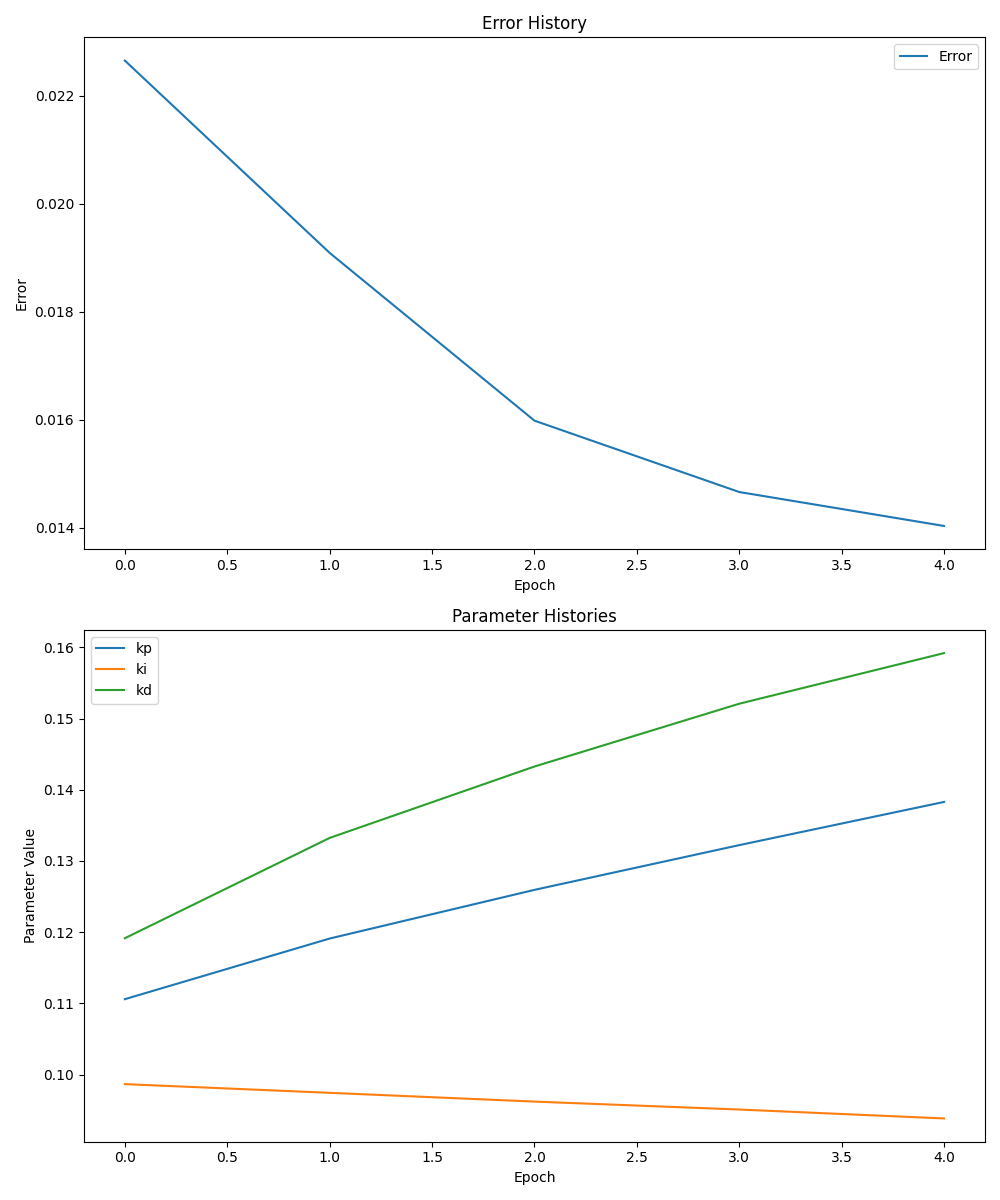
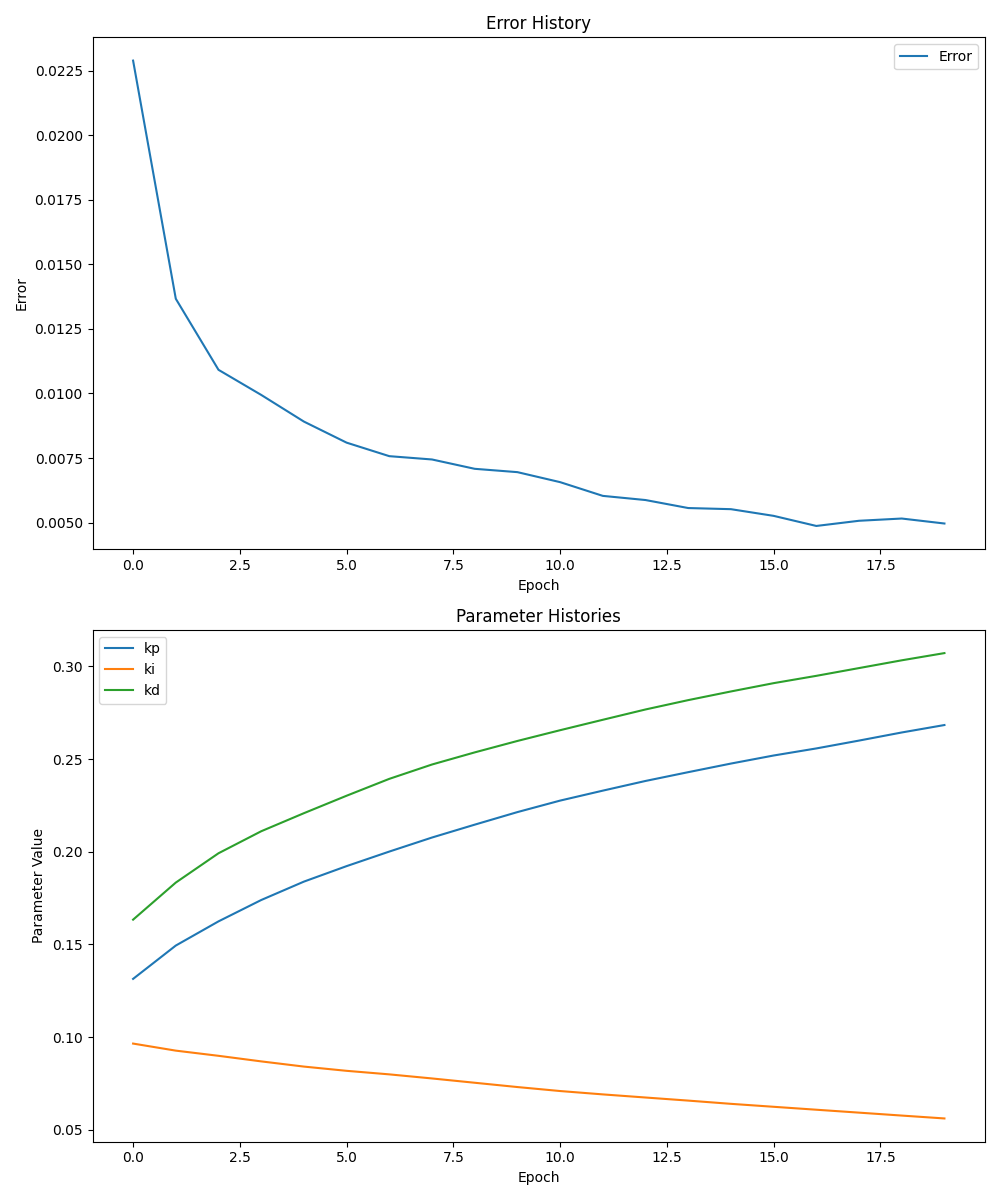
Fix cournot plant and add chemical plant

diff --git a/config.py b/config.py
@@ -1,43 +1,57 @@
-# 1. The plant to simulate: bathtub, Cournot competition, your additional model, etc.
-plant = "bathtub"
-# 2. The controller to use: classic or AI-based
+# 1. The plant to simulate: "bathtub", "cournot", "chemical_reaction"
+plant = "cournot"
+# 2. The controller to use: "classic" or "ann"
 controller = "classic"
-# 3. Number of layers and number of neurons in each layer of the neural network. Your system should
-# handle anywhere between 0 and 5 hidden layers.
+# 3. Number of layers and number of neurons in each layer of the neural network.
 num_layers = 1
-# 4. Activation function used for each layer of the neural network. Your system must include at least
-# Sigmoid, Tanh and RELU.
+# 4. Activation function used for each layer of the neural network. Possible values: "tanh", "sigmoid", "RELU".
 activation = "sigmoid"
 # 5. Range of acceptable initial values for each weight and bias in the neural network.
 weight_range = 1
 # 6. Number of training epochs
-num_epochs = 5
+num_epochs = 20
 # 7. Number of simulation timesteps of the CONSYS per epoch
 num_timesteps = 50
 # 8. Learning rate for tuning the controller parameters, whether classic PID or neural-net-based.
-learning_rate = 0.1
+#For classic chemical_reaction: learning_rate = 0.05 works good. 
+# For classic bathtub and cournot, learning_rate = 0.3 works good.
+learning_rate = 0.3
 # 9. Range of acceptable values for noise / disturbance (D).
+# For classic chemical_reaction: noise_range = 0.05 works good.
+# For classic bathtub and cournot: noise_range = 0.01 works good.
 noise_range = 0.01
+# Initial values for pid parameters
+#For classic chemical_reaction: kp = 0.3, ki = 0.3, kd = 0.3 works good.
+#For classic bathtub and cournot: kp = 0.1, ki = 0.1, kd = 0.1 works good.
+kp, ki, kd = 0.1, 0.1, 0.1
+
+max_or_min = "min"
+
+# Bathtub
 # 10. Cross-sectional area (A) of the bathtub
 A = 1
 # 11. Cross-sectional area (C) of the bathtub’s drain.
 C = 0.05
 # 12. Initial height (H0) of the bathtub water.
 H0 = 1
+
+# Cournot competition
 # 13. The maximum price (pmax) for Cournot competition
-pmax = 1
+pmax = 2
 # 14. The marginal cost (cm) for Cournot competition.
-cm = 0.1
+cm = 0.50
 # Target for the price of the Cournot competition
-target = 0.5
+cournot_target = 0.2
 # q1 initial amount produced
 q1 = 0.5
 # q2 initial amount produced
 q2 = 0.5
 # 15. At least two parameters for your third plant.
 
-# Initial values for pid parameters
-kp, ki, kd = 0.1, 0.1, 0.1
-
-max_or_min = "min"
-
+# Chemical reaction plant
+# 16. The rate constant (k) for the chemical reaction
+k = 0.2
+# 17. The target concentration for the chemical reaction
+chemical_plant_target = 10
+# 18. The initial concentration for the chemical reaction
+initial_concentration = 10

diff --git a/consys.py b/consys.py
@@ -7,6 +7,7 @@ from controllers.PIDcontroller import PIDCONTROLLER
 from plants.bathtub_plant import BATHTUB_PLANT
 import config
 from plants.cournot_plant import COURNOT_PLANT
+from plants.chemical_reaction_plant import CHEMICAL_REACTION_PLANT
 
 
 class CONSYS:
@@ -22,7 +23,9 @@ class CONSYS:
         if config.plant == "bathtub":
             self.plant = BATHTUB_PLANT(config.A, config.C, config.H0)
         elif config.plant == "cournot":
-            self.plant = COURNOT_PLANT(config.pmax, config.cm, config.target)
+            self.plant = COURNOT_PLANT(config.pmax, config.cm, config.cournot_target, config.q1, config.q2)
+        elif config.plant == "chemical_reaction":
+            self.plant = CHEMICAL_REACTION_PLANT(config.k, config.chemical_plant_target, config.initial_concentration)
         else:
             AttributeError(f"{config.plant} not supported")
 
@@ -42,7 +45,7 @@ class CONSYS:
         if config.controller == "classic":
             self.params = jnp.array([config.kp, config.ki, config.kd])
         elif config.controller == "ann":
-            for _ in range(config.num_layers):
+            for _ in range(config.num_layers): 
                 self.params.append(
                     np.random.uniform(-config.weight_range, config.weight_range))
         else:
@@ -58,6 +61,7 @@ class CONSYS:
             epoch_error_history.append(avg_error)
             self.params = self.update_params(self.params, gradients)
             self.param_history.append(self.params)
+            print(f"Average error: {avg_error}")
         
         return epoch_error_history, self.param_history
 
@@ -66,7 +70,8 @@ class CONSYS:
             "error_history": [0, 0],
             "disturbance": 0,
             "control_signal": 0,
-            "value": self.plant.get_inital_value(),
+            "value": self.plant.get_initial_value(),
+            "additional": self.plant.get_additional_values()
         }
 
         for _ in range(self.num_timesteps):
@@ -87,4 +92,5 @@ class CONSYS:
         new_params = []
         for i in range(len(params)):
             new_params.append(params[i] + q * self.learning_rate * gradients[i])
+        print(new_params)
         return new_params

diff --git a/plants/cournot_plant.py b/plants/cournot_plant.py
@@ -1,20 +1,53 @@
-from plants.plant import PLANT, abstractmethod
-
+from plants.plant import PLANT
+import jax.numpy as jnp
 
 
 class COURNOT_PLANT(PLANT):
 
   def __init__(self, pmax, cm, target, q1, q2):
-    super(self, target)
+    super(COURNOT_PLANT, self).__init__(target)
     self.pmax = pmax
     self.cm = cm
-    self.q1 = q1
-    self.q2 = q2
+    self.q1_0 = q1
+    self.q2_0 = q2
     
-  def execute_timestep(self, state):
-    disturbance = state["disturbance"]
-    profit = state["value"]
-    q1 = state["control_signal"]
+  # def execute_timestep(self, state):
+  #   disturbance = state["disturbance"]
+  #   values = state["value"]
+  #   control_signal = state["control_signal"]
+  #   new_values = {}
 
-    p = self.pmax -
-    return p
+  #   new_values["q1"] = jnp.clip(values["q1"] + control_signal, 0, 1)
+  #   new_values["q2"] = jnp.clip(values["q2"] + disturbance, 0, 1)
+
+  #   q = new_values["q1"] + new_values["q2"] # q = q1 + q2
+  #   p = self.pmax - q #price = pmax - q
+  #   new_values["profit"] = new_values["q1"] * (p - self.cm) #profit = q1 * (price - marginal cost)
+  #   return new_values
+  
+  def execute_timestep(self, state):
+        disturbance = state["disturbance"]
+        control_signal = state["control_signal"]
+        q1 = state["additional"][0]
+        q2 = state["additional"][1]
+
+        # Update q1 and q2 within the constraints
+        new_q1 = jnp.clip(q1 + control_signal, 0, 1)
+        new_q2 = jnp.clip(q2 + disturbance, 0, 1)
+
+        # Calculate total production and price
+        q = new_q1 + new_q2
+        p = self.pmax - q
+
+        return new_q1 * (p - self.cm)
+  
+
+  def get_initial_value(self):
+        return 0
+  
+  def calculate_error(self, state):
+    error = self.target - state["value"]
+    return error
+
+  def get_additional_values(self):
+      return [self.q1_0, self.q2_0]

diff --git a/plants/chemical_reaction_plant.py b/plants/chemical_reaction_plant.py
@@ -1,0 +1,26 @@
+from plants.plant import PLANT
+import jax.numpy as jnp
+
+class CHEMICAL_REACTION_PLANT(PLANT):
+
+    def __init__(self, k, target, initial_concentration):
+        super(CHEMICAL_REACTION_PLANT, self).__init__(target)
+        self.k = k
+        self.initial_concentration = initial_concentration
+
+    def execute_timestep(self, state):
+        control_signal = state["control_signal"]
+        disturbance = state["disturbance"]
+        current_concentration = state["value"]
+
+        # Update concentration based on reaction rate and control signal
+        new_concentration = current_concentration - self.k * current_concentration + control_signal + disturbance
+
+        return new_concentration
+
+    def get_initial_value(self):
+        return self.initial_concentration
+
+    def calculate_error(self, state):
+        error = self.target - state["value"]
+        return error

diff --git a/plants/bathtub_plant.py b/plants/bathtub_plant.py
@@ -5,7 +5,7 @@ import jax.numpy as jnp
 class BATHTUB_PLANT(PLANT):
     
   def __init__(self, A, C, target):
-    super(self, target)
+    super(BATHTUB_PLANT, self).__init__(target)
     self.A = A
     self.C = C
 
@@ -17,5 +17,10 @@ class BATHTUB_PLANT(PLANT):
     drain = self.C * jnp.sqrt(2 * 9.8 * state["value"])
     return (volume + disturbance + control_signal - drain) / self.A
 
+  def get_initial_value(self):
+    return self.target
     
-    
+  def calculate_error(self, state):
+    error = self.target - state["value"]
+    return error
+  

diff --git a/plants/plant.py b/plants/plant.py
@@ -9,10 +9,15 @@ class PLANT:
     def execute_timestep(args):
         pass
 
+    @abstractmethod
     def get_initial_value(self):
-        return self.target
+        pass
 
+    @abstractmethod
     def calculate_error(self, state):
-        error = self.target - state["value"]
-        return error
+        pass
+
+    @abstractmethod
+    def get_additional_values(self):
+        return None
     

diff --git a/main.py b/main.py
@@ -1,11 +1,12 @@
 from consys import CONSYS
 import matplotlib.pyplot as plt
 import config
+import jax.numpy as jnp
 
 def main():
+
     consys = CONSYS()
     error_history, params_history = consys.run_system()
-
     #plot params history
     kp_history = []
     ki_history = []
